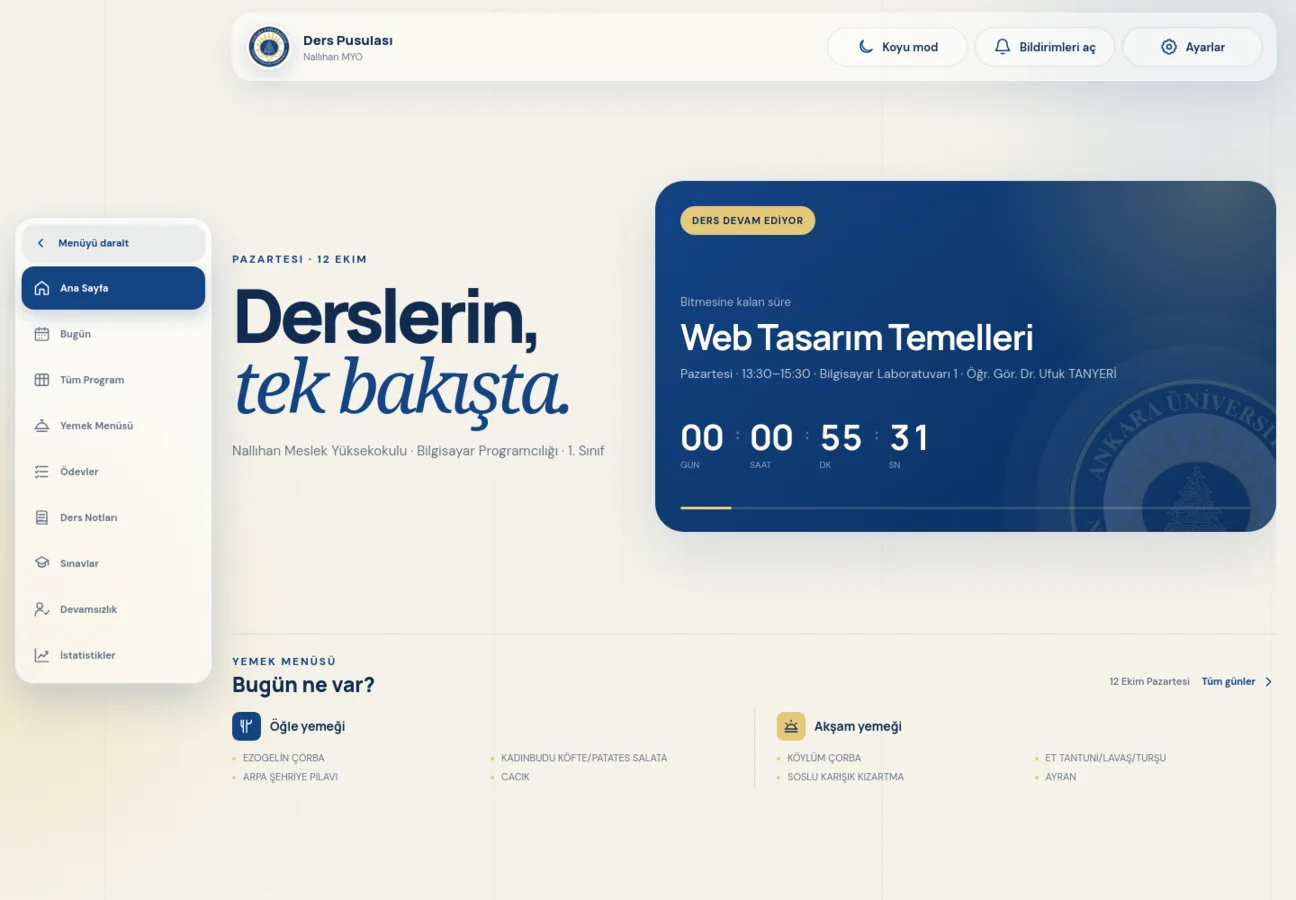
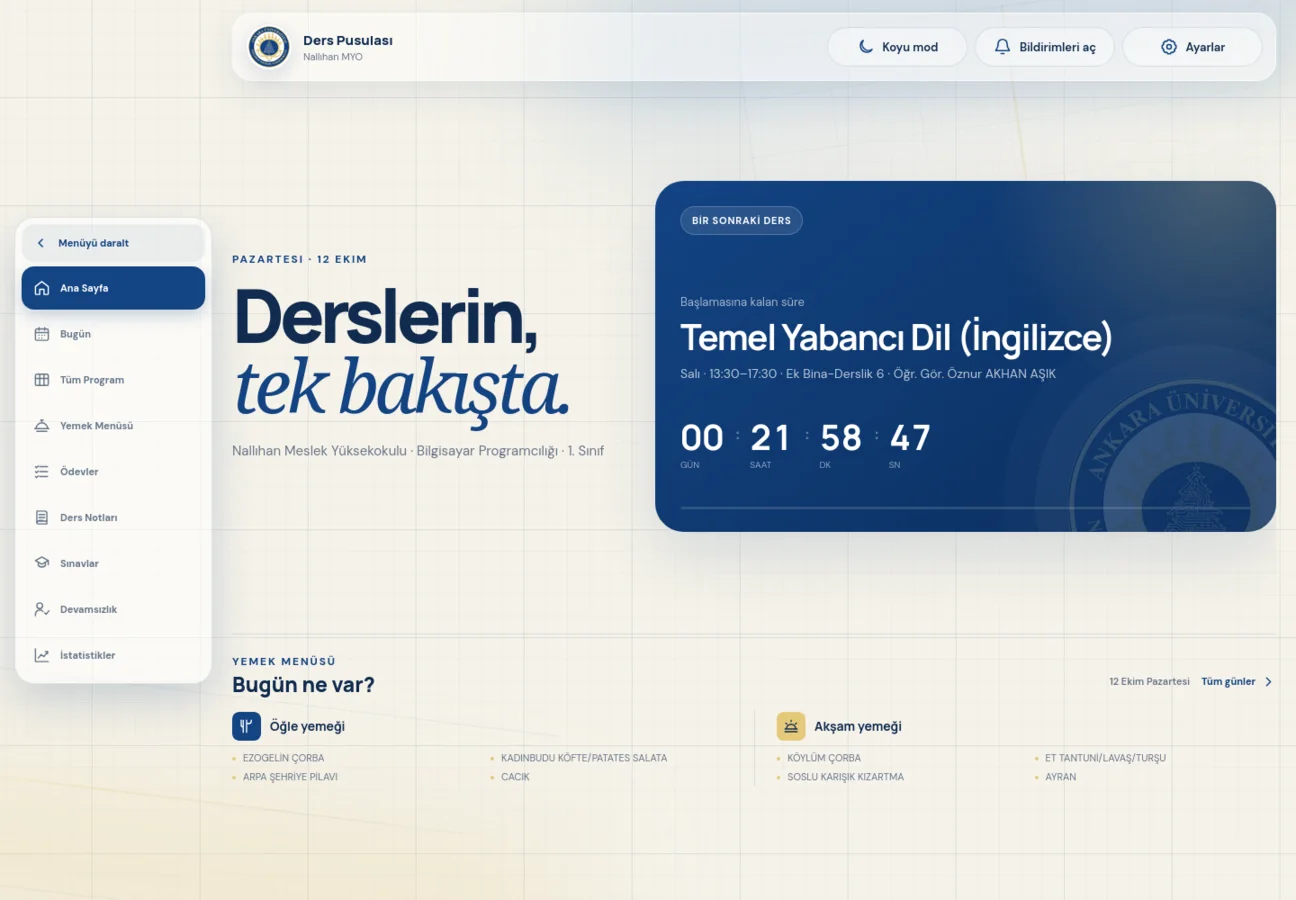
style: refine animated academic background

diff --git a/styles.css b/styles.css
@@ -8,6 +8,10 @@
   --wine-dark: #0a2d5c;
   --lime: #e5c97b;
   --line: rgba(19, 67, 131, 0.13);
+  --grid-fine: rgba(19, 67, 131, 0.028);
+  --grid-major: rgba(19, 67, 131, 0.075);
+  --grid-accent: rgba(229, 201, 123, 0.44);
+  --schedule-fill: rgba(255, 255, 255, 0.16);
   --shadow: 0 24px 70px rgba(19, 67, 131, 0.15);
   --radius-xl: 32px;
   --radius-lg: 22px;
@@ -27,6 +31,10 @@ html[data-theme="dark"] {
   --wine-dark: #092a54;
   --lime: #e5c97b;
   --line: rgba(229, 201, 123, 0.18);
+  --grid-fine: rgba(174, 188, 208, 0.035);
+  --grid-major: rgba(174, 188, 208, 0.09);
+  --grid-accent: rgba(229, 201, 123, 0.28);
+  --schedule-fill: rgba(95, 148, 210, 0.035);
   --shadow: 0 24px 70px rgba(0, 7, 19, 0.38);
 }
 
@@ -64,46 +72,77 @@ textarea:focus-visible {
 .background-motion {
   position: fixed;
   z-index: -1;
-  inset: -72px;
+  inset: -120px;
+  overflow: hidden;
   pointer-events: none;
-  opacity: 0.42;
   background-image:
-    linear-gradient(rgba(19, 67, 131, 0.055) 1px, transparent 1px),
-    linear-gradient(90deg, rgba(19, 67, 131, 0.055) 1px, transparent 1px),
-    linear-gradient(90deg, transparent 49.7%, rgba(229, 201, 123, 0.22) 50%, transparent 50.3%);
-  background-size: 72px 72px, 72px 72px, 432px 100%;
+    linear-gradient(var(--grid-fine) 1px, transparent 1px),
+    linear-gradient(90deg, var(--grid-fine) 1px, transparent 1px),
+    linear-gradient(var(--grid-major) 1px, transparent 1px),
+    linear-gradient(90deg, var(--grid-major) 1px, transparent 1px);
+  background-size: 24px 24px, 24px 24px, 120px 120px, 120px 120px;
   will-change: transform;
-  animation: timetable-drift 34s ease-in-out infinite alternate;
+  animation: timetable-drift 38s ease-in-out infinite alternate;
+}
+
+.background-motion::before {
+  content: "";
+  position: absolute;
+  top: 10%;
+  right: -4%;
+  width: min(760px, 62vw);
+  height: min(480px, 54vh);
+  border: 1px solid var(--grid-major);
+  background-color: var(--schedule-fill);
+  background-image:
+    linear-gradient(var(--grid-major) 1px, transparent 1px),
+    linear-gradient(90deg, var(--grid-major) 1px, transparent 1px),
+    linear-gradient(90deg, transparent 0 39%, var(--grid-accent) 39% 39.35%, transparent 39.35% 100%);
+  background-size: 100% 64px, 96px 100%, 100% 100%;
+  opacity: 0.62;
+  transform: rotate(-8deg);
+  mask-image: linear-gradient(135deg, #000 5%, rgba(0, 0, 0, 0.76) 46%, transparent 86%);
+  -webkit-mask-image: linear-gradient(135deg, #000 5%, rgba(0, 0, 0, 0.76) 46%, transparent 86%);
+}
+
+.background-motion::after {
+  content: "";
+  position: absolute;
+  bottom: 17%;
+  left: 4%;
+  width: min(680px, 58vw);
+  height: 2px;
+  background: linear-gradient(90deg, transparent, var(--grid-accent) 24%, var(--grid-major) 72%, transparent);
+  box-shadow: 0 120px 0 var(--grid-major), 0 -120px 0 var(--grid-major);
+  opacity: 0.68;
+  transform: rotate(7deg);
 }
 
 .ambient {
   position: fixed;
   z-index: -1;
-  width: 440px;
-  height: 440px;
-  border-radius: 50%;
-  filter: blur(90px);
-  opacity: 0.25;
+  height: 170px;
+  filter: blur(76px);
   pointer-events: none;
   will-change: transform;
 }
 
-.ambient-one { top: -170px; right: -130px; background: #9bb8dc; animation: ambient-one-drift 22s ease-in-out infinite alternate; }
-.ambient-two { bottom: 8%; left: -220px; background: #e5c97b; animation: ambient-two-drift 27s ease-in-out infinite alternate; }
+.ambient-one { top: -82px; right: -12vw; width: 68vw; background: rgba(95, 148, 210, 0.3); animation: ambient-one-drift 24s ease-in-out infinite alternate; }
+.ambient-two { bottom: -64px; left: -18vw; width: 62vw; background: rgba(229, 201, 123, 0.26); animation: ambient-two-drift 29s ease-in-out infinite alternate; }
 
 @keyframes timetable-drift {
-  from { transform: translate3d(-28px, -20px, 0); }
-  to { transform: translate3d(28px, 20px, 0); }
+  from { transform: translate3d(-18px, -12px, 0); }
+  to { transform: translate3d(18px, 12px, 0); }
 }
 
 @keyframes ambient-one-drift {
-  from { transform: translate3d(0, 0, 0) scale(0.96); }
-  to { transform: translate3d(-54px, 48px, 0) scale(1.06); }
+  from { transform: translate3d(0, 0, 0) rotate(-7deg); }
+  to { transform: translate3d(-48px, 36px, 0) rotate(-3deg); }
 }
 
 @keyframes ambient-two-drift {
-  from { transform: translate3d(0, 0, 0) scale(1.04); }
-  to { transform: translate3d(62px, -38px, 0) scale(0.96); }
+  from { transform: translate3d(0, 0, 0) rotate(8deg); }
+  to { transform: translate3d(58px, -34px, 0) rotate(4deg); }
 }
 
 .site-header {
@@ -1019,15 +1058,8 @@ html[data-theme="dark"] .theme-icon .sun-icon { display: block; }
 .toast { position: fixed; z-index: 10; right: 22px; bottom: 22px; max-width: min(360px, calc(100% - 44px)); padding: 13px 17px; border-radius: 13px; color: var(--white); background: var(--ink); box-shadow: 0 15px 40px rgba(0,0,0,.2); opacity: 0; transform: translateY(12px); pointer-events: none; transition: 220ms ease; }
 .toast.show { opacity: 1; transform: translateY(0); }
 
-html[data-theme="dark"] .ambient-one { background: #194d88; opacity: 0.28; }
-html[data-theme="dark"] .ambient-two { background: #8b7436; opacity: 0.18; }
-html[data-theme="dark"] .background-motion {
-  opacity: 0.3;
-  background-image:
-    linear-gradient(rgba(174, 188, 208, 0.075) 1px, transparent 1px),
-    linear-gradient(90deg, rgba(174, 188, 208, 0.075) 1px, transparent 1px),
-    linear-gradient(90deg, transparent 49.7%, rgba(229, 201, 123, 0.18) 50%, transparent 50.3%);
-}
+html[data-theme="dark"] .ambient-one { background: rgba(25, 77, 136, 0.38); }
+html[data-theme="dark"] .ambient-two { background: rgba(139, 116, 54, 0.24); }
 html[data-theme="dark"] .settings-button,
 html[data-theme="dark"] .theme-button,
 html[data-theme="dark"] .notification-button { background: rgba(16, 45, 82, 0.72); }
@@ -1342,9 +1374,14 @@ html[data-theme="dark"] .toast { color: #ffffff; background: #123c70; }
 
 @media (max-width: 700px) {
   .background-motion {
-    opacity: 0.3;
-    background-size: 64px 64px, 64px 64px, 320px 100%;
+    inset: -80px;
+    background-size: 22px 22px, 22px 22px, 110px 110px, 110px 110px;
   }
+  .background-motion::before { top: 15%; right: -42%; width: 112vw; height: 44vh; opacity: 0.38; }
+  .background-motion::after { bottom: 20%; left: -18%; width: 86vw; opacity: 0.46; }
+  .ambient { height: 120px; filter: blur(62px); }
+  .ambient-one { right: -34vw; width: 105vw; }
+  .ambient-two { left: -42vw; width: 105vw; }
 }
 
 @media (prefers-reduced-motion: reduce) {

diff --git a/service-worker.js b/service-worker.js
@@ -1,4 +1,4 @@
-const CACHE_NAME = "ders-pusulasi-v33";
+const CACHE_NAME = "ders-pusulasi-v34";
 const ASSETS = [
   "./",
   "./index.html",
